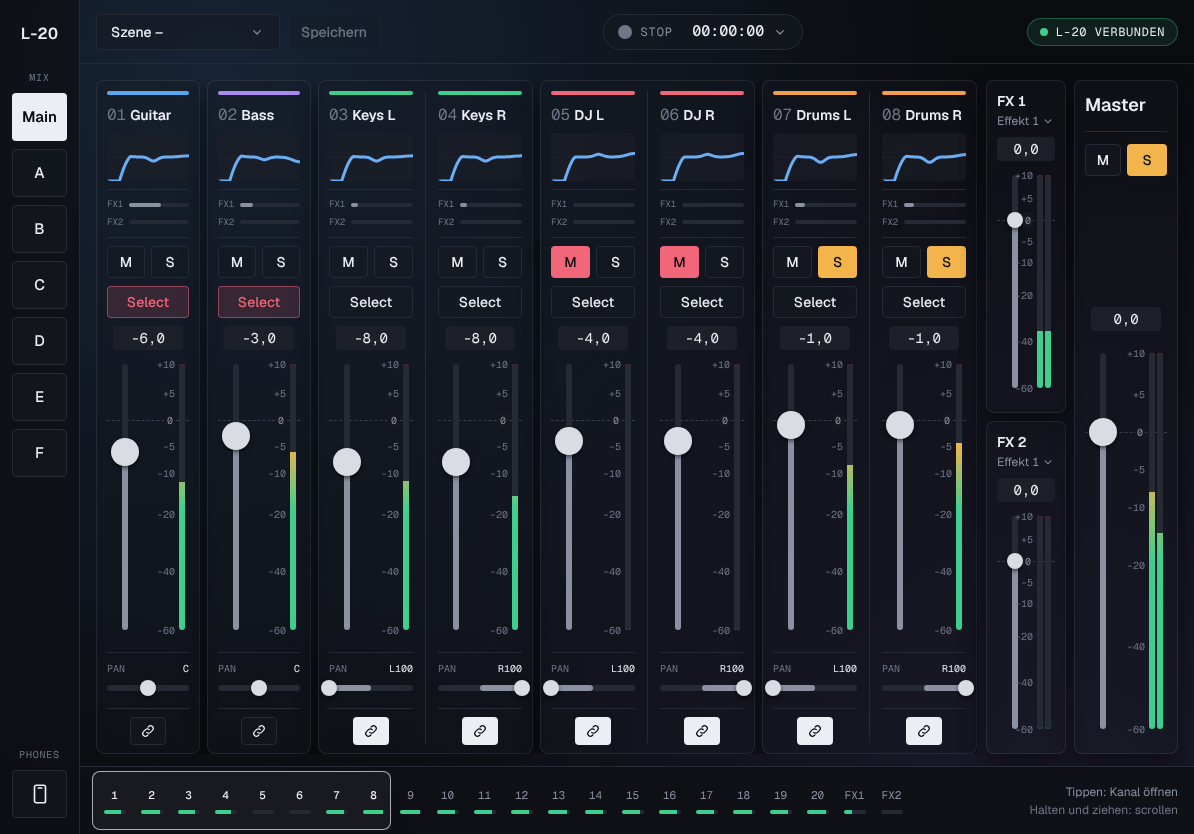
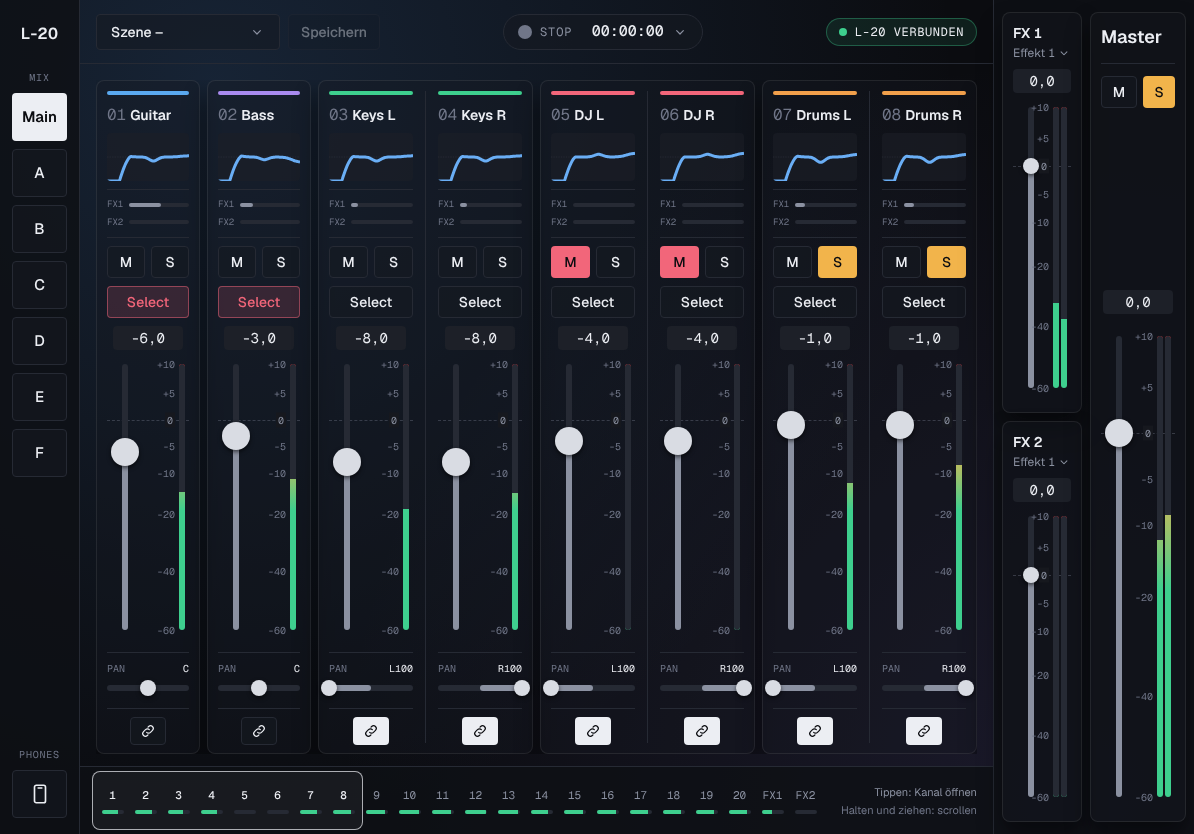
feat(ui): master/FX (or mix output) in a full-height right rail like the navigation
Claude-Session: https://claude.ai/code/session_01KbLEJ1Gsh3xGpwrhXZZo4P

diff --git a/src/ui/screens/Shell.tsx b/src/ui/screens/Shell.tsx
@@ -10,11 +10,14 @@ export function Shell({
   mix,
   onMix,
   overview,
+  aside,
   children,
 }: {
   mix: View
   onMix: (mix: View) => void
   overview: ReactNode
+  /** fixed right rail (master + FX or the monitor mix output), full height like the navigation */
+  aside: ReactNode
   children: ReactNode
 }) {
   return (
@@ -50,6 +53,9 @@ export function Shell({
         <main className="min-h-0 flex-1 p-4 pb-3">{children}</main>
         {overview}
       </div>
+      <aside className="border-line bg-sidebar/85 flex shrink-0 gap-2 border-l px-2 py-3">
+        {aside}
+      </aside>
     </div>
   )
 }
@@ -178,7 +184,7 @@ export function Overview({
   const meters = useMixerStore((s) => s.meters)
   const drag = useRef<{ x: number; moved: boolean } | null>(null)
   const items = Array.from({ length: 20 }, (_, i) => i + 1).concat(fx ? [21, 22] : [])
-  const STEP = 37
+  const STEP = 33
 
   return (
     <div
@@ -220,7 +226,7 @@ export function Overview({
             <div
               key={ch}
               data-ch={ch}
-              className="relative flex w-[37px] flex-col items-center py-2"
+              className="relative flex w-[33px] flex-col items-center py-2"
             >
               <span className={cn('font-mono text-[11px]', on ? 'font-medium' : 'text-fg2')}>
                 {ch <= 20 ? ch : `FX${ch - 20}`}
@@ -235,7 +241,7 @@ export function Overview({
           )
         })}
       </div>
-      <div className="ml-auto text-right text-xs leading-[18px]">
+      <div className="ml-auto text-right text-[11px] leading-[18px] whitespace-nowrap">
         <div className="text-fg2">Tippen: Kanal öffnen</div>
         <div className="text-fg3">Halten und ziehen: scrollen</div>
       </div>

diff --git a/src/ui/screens/Console.tsx b/src/ui/screens/Console.tsx
@@ -43,14 +43,6 @@ export function Console({
           ),
         )}
       </div>
-      {mix === 'main' ? (
-        <>
-          <FxReturns />
-          <MasterStrip />
-        </>
-      ) : (
-        <MonitorPanel mix={mix} />
-      )}
     </div>
   )
 }
@@ -243,7 +235,7 @@ function FxStrip({ id }: { id: FxMixId }) {
   )
 }
 
-function MasterStrip() {
+export function MasterStrip() {
   const main = useMixerStore((s) => s.mixer.main)
   const anySolo = useMixerStore((s) => s.mixer.channels.some((c) => c.solo))
   const left = useMixerStore((s) => s.meters[20])
@@ -251,7 +243,7 @@ function MasterStrip() {
   const channels = useMixerStore((s) => s.mixer.channels)
   const dispatch = useMixerStore((s) => s.dispatch)
   return (
-    <section aria-label="Master" className="card flex w-[104px] shrink-0 flex-col p-2.5">
+    <section aria-label="Master" className="card flex w-24 shrink-0 flex-col p-2.5">
       <div className="text-lg font-semibold">Master</div>
       <div className="border-line mt-3 grid grid-cols-[auto_1fr] gap-1.5 border-t pt-3">
         <Btn
@@ -289,7 +281,7 @@ function MasterStrip() {
   )
 }
 
-function MonitorPanel({ mix }: { mix: MonitorMixId }) {
+export function MonitorPanel({ mix }: { mix: MonitorMixId }) {
   const bus = useMixerStore((s) => s.mixer.monitors[mix])
   const level = useMixerStore((s) => mixLevel(s.mixer, s.meters, mix))
   const dispatch = useMixerStore((s) => s.dispatch)

diff --git a/src/ui/App.tsx b/src/ui/App.tsx
@@ -2,7 +2,7 @@ import { useEffect, useState } from 'react'
 import { MONITOR_MIXES, type MonitorMixId } from '@/lib/mixer'
 import { useMixerStore } from '@/state/mixerStore'
 import { ChannelDetail } from './screens/ChannelDetail'
-import { Console, STRIP_W } from './screens/Console'
+import { Console, FxReturns, MasterStrip, MonitorPanel, STRIP_W } from './screens/Console'
 import { Phone } from './screens/Phone'
 import type { View } from './mixView'
 import { Overview, Shell } from './screens/Shell'
@@ -33,6 +33,16 @@ function Ipad() {
         setMix(m)
         setDetail(null)
       }}
+      aside={
+        mix === 'main' || detail ? (
+          <>
+            <FxReturns />
+            <MasterStrip />
+          </>
+        ) : (
+          <MonitorPanel mix={mix} />
+        )
+      }
       overview={
         <Overview
           fx={mix === 'main' && detail === null}

diff --git a/src/ui/screens/ChannelDetail.tsx b/src/ui/screens/ChannelDetail.tsx
@@ -4,7 +4,6 @@ import { cn } from '@/lib/utils'
 import { useMixerStore } from '@/state/mixerStore'
 import { Btn, Fader, Slider, Icon, Knob, Label, ValueBox } from '../components/controls'
 import { EqGraph } from '../components/EqGraph'
-import { FxReturns } from './Console'
 import { channelNo, formatHz, linkCommand } from '../mixView'
 
 const FLAT: Partial<Eq> = { lowCut: false, low: 0, midGain: 0, midFreq: 1000, high: 0 }
@@ -225,7 +224,6 @@ export function ChannelDetail({ ch, onBack }: { ch: number; onBack: () => void }
             label={`Fader ${c.name}`}
           />
         </section>
-        <FxReturns />
       </div>
     </div>
   )
